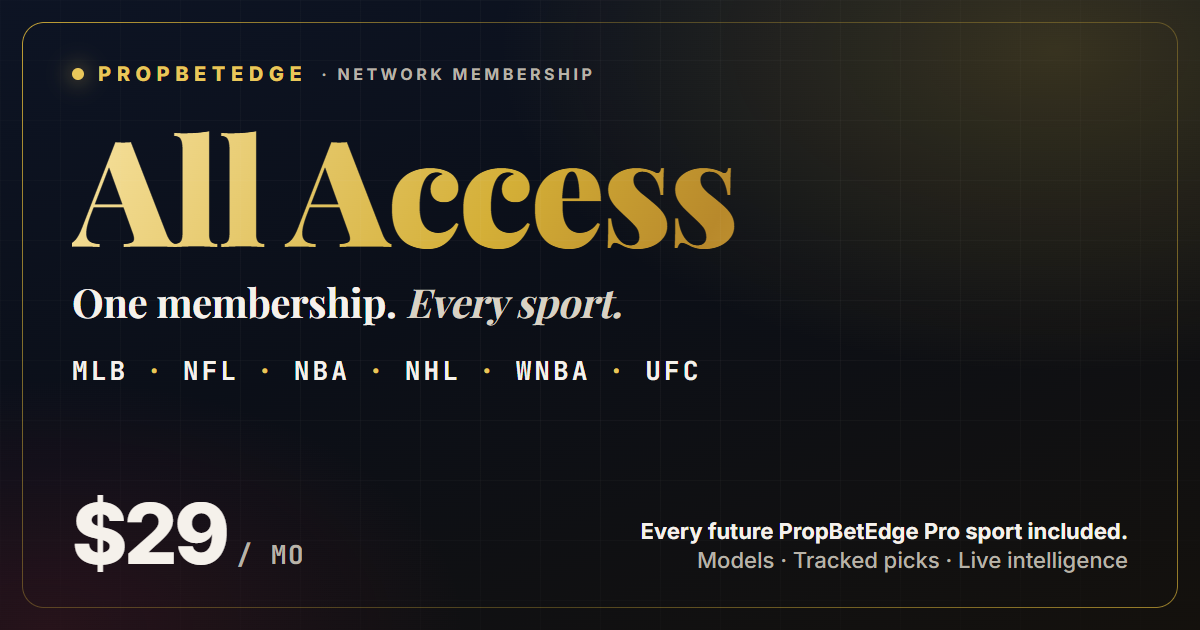
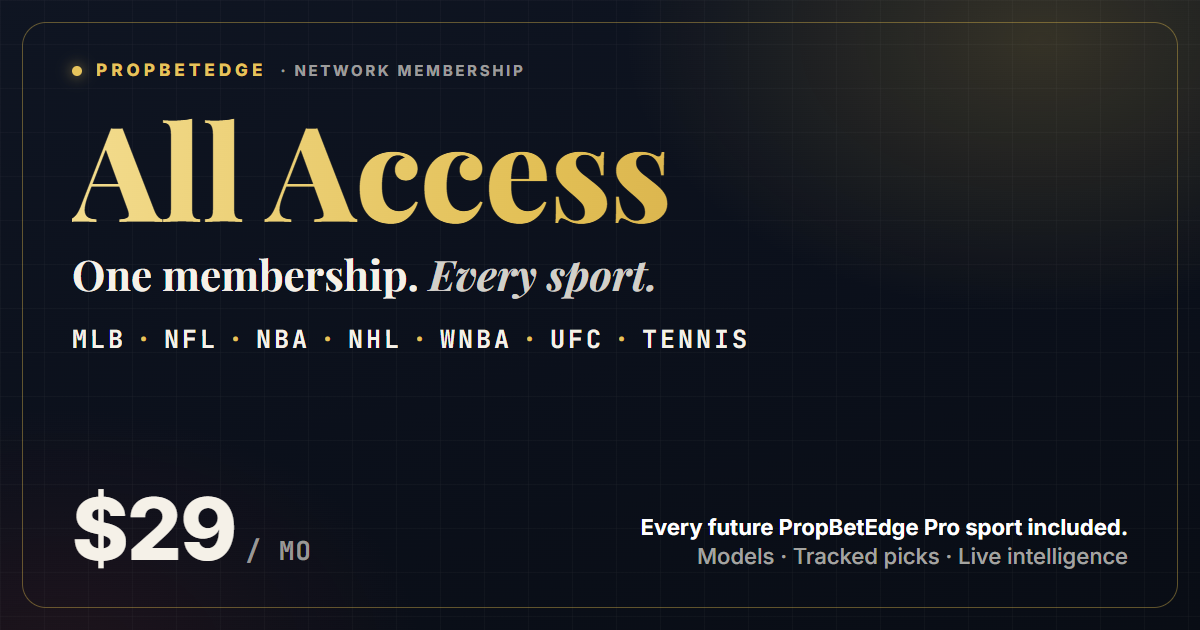
Tennis = 7th PropBetEdge sport: All Access /pro, share cards, root footer, network schema
/pro: SPORTS gains PropBetEdge Tennis (grid, links, JSON-LD product copy), '7 sports today', hero line 'MLB, NFL, NBA, NHL, WNBA and UFC Pro, plus PropBetEdge Tennis'. Sport-plan copy unchanged (Tennis has no sport plan). Title 'PropBetEdge All Access | 7 Sports, One Membership' (<=60 chars); description, share title and image alt name Tennis. All Access share card re-rendered from the new scripts/og/all-access-card.html (same design, sport row with TENNIS), ?v=20260926t; network card sport row gains TENNIS, ?v=20260926t. Root footer: Tennis Intelligence (Free) from PROPBET_LINKS.tennis. Organization/about/live-platform copy name Tennis.

Stripe identity untouched: pbe_all_access, price_1UJCF1F3CaVzg4ORSIohWTca, plink_1UJCFAF3CaVzg4ORKspa47rI, $29/month, THEEDGE25. tests/network-sports.test.mjs pins it and the 7-sport footer.

diff --git a/scripts/og/all-access-card.html b/scripts/og/all-access-card.html
@@ -1,0 +1,52 @@
+<!doctype html>
+<html lang="en">
+<head>
+<meta charset="utf-8">
+<!-- PropBetEdge All Access share card (1200x630) for /pro. Render: node scripts/og/render-all-access-card.mjs
+     Commercial facts must match src/pro-content.js ALL_ACCESS (price) and SPORTS (every sport). -->
+<link href="https://fonts.googleapis.com/css2?family=Playfair+Display:ital,wght@0,700;0,800;1,700&family=Inter:wght@500;600;700;800&family=JetBrains+Mono:wght@600;700&display=block" rel="stylesheet">
+<style>
+  *{box-sizing:border-box;margin:0;padding:0}
+  html,body{width:1200px;height:630px;overflow:hidden;background:#0a0e17}
+  .card{position:relative;width:1200px;height:630px;overflow:hidden;color:#f5f1e8;font-family:Inter,system-ui,sans-serif;
+    background:
+      radial-gradient(640px 420px at 1040px 40px, rgba(214,178,74,.20), transparent 65%),
+      radial-gradient(520px 360px at 60px 660px, rgba(120,40,40,.18), transparent 70%),
+      linear-gradient(165deg,#0f1522 0%,#0b101b 55%,#090d15 100%)}
+  .grid{position:absolute;inset:0;background-image:linear-gradient(rgba(255,255,255,.028) 1px,transparent 1px),linear-gradient(90deg,rgba(255,255,255,.028) 1px,transparent 1px);background-size:44px 44px}
+  .frame{position:absolute;inset:22px;border-radius:24px;border:1px solid rgba(214,178,74,.42)}
+  .safe{position:absolute;left:72px;top:62px;right:72px;bottom:58px}
+  .kicker{display:flex;align-items:center;gap:14px;font:800 17px/1 Inter,sans-serif;letter-spacing:.24em;color:#e6c35c}
+  .kicker i{width:10px;height:10px;border-radius:50%;background:#e6c35c;box-shadow:0 0 14px rgba(230,195,92,.8)}
+  .kicker span{color:rgba(245,241,232,.62);font-weight:700;font-size:15px;letter-spacing:.18em}
+  h1{margin-top:22px;font:800 132px/1 'Playfair Display',serif;letter-spacing:-.01em;
+    background:linear-gradient(95deg,#f3dc8e 0%,#e2bf55 45%,#c6973a 100%);-webkit-background-clip:text;background-clip:text;color:transparent}
+  .tag{margin-top:18px;font:700 42px/1.1 'Playfair Display',serif;color:#f5f1e8}
+  .tag em{font-style:italic;color:rgba(245,241,232,.85)}
+  .sports{margin-top:30px;font:700 25px/1 'JetBrains Mono',monospace;letter-spacing:.12em;color:#f5f1e8}
+  .sports b{color:#e6c35c;padding:0 10px;font-weight:700}
+  .foot{position:absolute;left:0;right:0;bottom:0;display:flex;align-items:flex-end;justify-content:space-between}
+  .price{font:800 86px/1 Inter,sans-serif;letter-spacing:-.02em;color:#f5f1e8}
+  .price small{font:600 26px/1 'JetBrains Mono',monospace;color:rgba(245,241,232,.6);letter-spacing:.04em;margin-left:10px}
+  .inc{text-align:right}
+  .inc p{font:700 22px/1.35 Inter,sans-serif;color:#fff}
+  .inc p + p{font-weight:500;color:rgba(245,241,232,.66)}
+</style>
+</head>
+<body>
+<div class="card">
+  <div class="grid"></div>
+  <div class="frame"></div>
+  <div class="safe">
+    <div class="kicker"><i></i>PROPBETEDGE <span>· NETWORK MEMBERSHIP</span></div>
+    <h1>All Access</h1>
+    <div class="tag">One membership. <em>Every sport.</em></div>
+    <div class="sports">MLB<b>·</b>NFL<b>·</b>NBA<b>·</b>NHL<b>·</b>WNBA<b>·</b>UFC<b>·</b>TENNIS</div>
+    <div class="foot">
+      <div class="price">$29<small>/ MO</small></div>
+      <div class="inc"><p>Every future PropBetEdge Pro sport included.</p><p>Models · Tracked picks · Live intelligence</p></div>
+    </div>
+  </div>
+</div>
+</body>
+</html>

diff --git a/src/pro-seo.js b/src/pro-seo.js
@@ -22,23 +22,23 @@ export const PRODUCT_ID = `${PRO_CANONICAL}#product`;
 export const OFFER_ID = `${PRO_CANONICAL}#offer`;
 export const BREADCRUMB_ID = `${PRO_CANONICAL}#breadcrumb`;
 
-export const PRO_TITLE = 'PropBetEdge All Access | MLB, NFL, NBA, NHL, WNBA & UFC Pro';
-export const PRO_DESCRIPTION = 'One $29/month membership for every PropBetEdge sport: MLB, NFL, NBA, NHL, WNBA and UFC Pro today, every future sport included. Proprietary prediction models, tracked and graded picks, live intelligence and PBEcast under one login.';
+export const PRO_TITLE = 'PropBetEdge All Access | 7 Sports, One Membership';
+export const PRO_DESCRIPTION = 'One $29/month membership for every PropBetEdge sport: MLB, NFL, NBA, NHL, WNBA and UFC Pro plus Tennis today, every future sport included. Proprietary prediction models, tracked and graded picks, live intelligence and PBEcast under one login.';
 export const PRO_SUCCESS_TITLE = 'All Access is active | PropBetEdge';
 export const PRO_SUCCESS_DESCRIPTION = 'Your PropBetEdge All Access membership is active. Sign in to any sport with the email you used at checkout.';
 
 /* Dedicated, evergreen share card: a static 1200x630 PNG at a stable public
    URL. Static on purpose: no auth, no runtime, correct MIME, cacheable. */
 export const PRO_SOCIAL_IMAGE = Object.freeze({
-  url: `${SITE}/social/all-access-1200x630.png`,
-  secure_url: `${SITE}/social/all-access-1200x630.png`,
+  url: `${SITE}/social/all-access-1200x630.png?v=20260926t`,
+  secure_url: `${SITE}/social/all-access-1200x630.png?v=20260926t`,
   type: 'image/png',
   width: 1200,
   height: 630,
-  alt: 'PropBetEdge All Access: one membership, every sport. MLB, NFL, NBA, NHL, WNBA, UFC. $29 per month.',
+  alt: 'PropBetEdge All Access: one membership, every sport. MLB, NFL, NBA, NHL, WNBA, UFC, Tennis. $29 per month.',
 });
 
-export const PRO_SHARE_TITLE = 'PropBetEdge All Access — MLB, NFL, NBA, NHL, WNBA and UFC Pro under one membership.';
+export const PRO_SHARE_TITLE = 'PropBetEdge All Access — MLB, NFL, NBA, NHL, WNBA, UFC and Tennis under one membership.';
 
 export const ROBOTS_INDEX = 'index, follow, max-image-preview:large';
 export const ROBOTS_TRANSACTIONAL = 'noindex, follow';
@@ -142,7 +142,7 @@ export function proJsonLd() {
         '@id': PRODUCT_ID,
         name: ALL_ACCESS.name,
         alternateName: 'All Access',
-        description: 'A monthly sports intelligence membership covering every PropBetEdge sport. Includes the Pro tier of PropBetEdge MLB, NFL, NBA, NHL, WNBA and UFC, plus every future PropBetEdge sport and Pro product: proprietary prediction models, tracked and graded picks, live game intelligence, PBEcast live experiences, player and matchup intelligence, with one login across the network.',
+        description: 'A monthly sports intelligence membership covering every PropBetEdge sport. Includes the Pro tier of PropBetEdge MLB, NFL, NBA, NHL, WNBA and UFC, PropBetEdge Tennis, and every future PropBetEdge sport and Pro product: proprietary prediction models, tracked and graded picks, live game intelligence, PBEcast live experiences, player and matchup intelligence, with one login across the network.',
         url: PRO_CANONICAL,
         image: PRO_SOCIAL_IMAGE.url,
         category: 'Sports intelligence membership',

diff --git a/index.html b/index.html
@@ -81,20 +81,20 @@
   <meta property="og:title" content="PropBetEdge — Sports News" />
   <meta property="og:description" content="Editorial sports journalism with AI prop-bet impact analysis." />
   <meta property="og:site_name" content="PropBetEdge" />
-  <meta property="og:image" content="https://propbetedge.ai/og/propbetedge-network-1200x630.png?v=20260926" />
-  <meta property="og:image:secure_url" content="https://propbetedge.ai/og/propbetedge-network-1200x630.png?v=20260926" />
+  <meta property="og:image" content="https://propbetedge.ai/og/propbetedge-network-1200x630.png?v=20260926t" />
+  <meta property="og:image:secure_url" content="https://propbetedge.ai/og/propbetedge-network-1200x630.png?v=20260926t" />
   <meta property="og:image:type" content="image/png" />
   <meta property="og:image:width" content="1200" />
   <meta property="og:image:height" content="630" />
-  <meta property="og:image:alt" content="PropBetEdge — The Sports Intelligence Network. Live data, Player DNA, PBEcast and predictive models across MLB, NFL, NBA, WNBA, NHL and UFC." />
+  <meta property="og:image:alt" content="PropBetEdge — The Sports Intelligence Network. Live data, Player DNA, PBEcast and predictive models across MLB, NFL, NBA, WNBA, NHL, UFC and Tennis." />
 
   <!-- Twitter -->
   <meta name="twitter:card" content="summary_large_image" />
   <meta name="twitter:title" content="PropBetEdge — Sports News" />
   <meta name="twitter:description" content="Editorial sports journalism with AI prop-bet impact analysis." />
   <meta name="twitter:site" content="@PROPBETEDGE" />
-  <meta name="twitter:image" content="https://propbetedge.ai/og/propbetedge-network-1200x630.png?v=20260926" />
-  <meta name="twitter:image:alt" content="PropBetEdge — The Sports Intelligence Network. Live data, Player DNA, PBEcast and predictive models across MLB, NFL, NBA, WNBA, NHL and UFC." />
+  <meta name="twitter:image" content="https://propbetedge.ai/og/propbetedge-network-1200x630.png?v=20260926t" />
+  <meta name="twitter:image:alt" content="PropBetEdge — The Sports Intelligence Network. Live data, Player DNA, PBEcast and predictive models across MLB, NFL, NBA, WNBA, NHL, UFC and Tennis." />
 
   <link rel="canonical" href="https://propbetedge.ai/" />
   <link rel="alternate" type="application/rss+xml" title="PropBetEdge News" href="/news/rss.xml" />
@@ -108,7 +108,7 @@
         "@id": "https://propbetedge.ai/#organization",
         "name": "PropBetEdge",
         "url": "https://propbetedge.ai/",
-        "description": "AI-native sports newsroom and sports-intelligence network covering MLB, NFL, NBA, WNBA, NHL, UFC, and expanding sports data products.",
+        "description": "AI-native sports newsroom and sports-intelligence network covering MLB, NFL, NBA, WNBA, NHL, UFC, Tennis, and expanding sports data products.",
         "mainEntityOfPage": "https://propbetedge.ai/about",
         "contactPoint": [
           { "@type": "ContactPoint", "contactType": "editorial", "email": "editorial@proptechusa.ai" },

diff --git a/src/pro-content.js b/src/pro-content.js
@@ -27,6 +27,7 @@ export const SPORTS = Object.freeze([
   { key: 'nhl', label: 'NHL', name: 'PropBetEdge NHL', url: 'https://nhl.propbetedge.ai', glyph: '🏒', edge: 'PBE NHL Picks, live scores, atmosphere board' },
   { key: 'wnba', label: 'WNBA', name: 'PropBetEdge WNBA', url: 'https://wnba.propbetedge.ai', glyph: '🏀', edge: 'PBE model, props board, newsroom and video' },
   { key: 'ufc', label: 'UFC', name: 'PropBetEdge UFC', url: 'https://ufc.propbetedge.ai', glyph: '🥊', edge: 'PBE Algo, Fighter DNA, fight-week intelligence' },
+  { key: 'tennis', label: 'Tennis', name: 'PropBetEdge Tennis', url: 'https://tennis.propbetedge.ai', glyph: '🎾', edge: 'Live scores, rankings, Tennis DNA, PBEcast' },
 ]);
 
 export const VALUE_PROPS = Object.freeze([
@@ -128,7 +129,7 @@ function hero(shareBar = '') {
         <div class="pbe-pro-price" aria-label="Price"><span class="pbe-pro-price-amount">$${ALL_ACCESS.priceUsd}</span><span class="pbe-pro-price-per">/ ${ALL_ACCESS.interval}</span></div>
         ${ctaButton('Get All Access', 'pbe-pro-cta-hero')}
         ${promoChip()}
-        <p class="pbe-pro-hero-fine">Includes MLB, NFL, NBA, NHL, WNBA and UFC Pro today. Individual sport plans stay available; All Access is the umbrella, not a replacement.</p>
+        <p class="pbe-pro-hero-fine">Includes MLB, NFL, NBA, NHL, WNBA and UFC Pro, plus PropBetEdge Tennis, today. Individual sport plans stay available; All Access is the umbrella, not a replacement.</p>
         ${shareBar ? `<div class="pbe-pro-share">${shareBar}</div>` : ''}
       </div>
       ${membershipCard(false)}
@@ -193,7 +194,7 @@ export function buildProHtml({ checkoutSuccess = false, shareBar = '' } = {}) {
           <div class="pbe-pro-plans-facts">
             <div><span class="pbe-pro-fact-k">Billing</span><span class="pbe-pro-fact-v">${priceLabel()}, cancel anytime</span></div>
             <div><span class="pbe-pro-fact-k">Access</span><span class="pbe-pro-fact-v">Secure sign-in link to your checkout email</span></div>
-            <div><span class="pbe-pro-fact-k">Coverage</span><span class="pbe-pro-fact-v">6 sports today, every future sport included</span></div>
+            <div><span class="pbe-pro-fact-k">Coverage</span><span class="pbe-pro-fact-v">7 sports today, every future sport included</span></div>
             <div><span class="pbe-pro-fact-k">Launch offer</span><span class="pbe-pro-fact-v">${esc(promoLine())}</span></div>
           </div>
         </div>

diff --git a/src/social.js b/src/social.js
@@ -12,14 +12,14 @@ export const PROPBETEDGE_X_HANDLE = '@PROPBETEDGE';
 /* Network default share card: static 1200x630 RGB PNG rendered from
    scripts/og/network-card.html. Bump ?v= whenever the PNG changes so X,
    LinkedIn, Slack and Discord refetch instead of serving their cached copy. */
-const NETWORK_CARD = 'https://propbetedge.ai/og/propbetedge-network-1200x630.png?v=20260926';
+const NETWORK_CARD = 'https://propbetedge.ai/og/propbetedge-network-1200x630.png?v=20260926t';
 export const NETWORK_SOCIAL_IMAGE = Object.freeze({
   url: NETWORK_CARD,
   secure_url: NETWORK_CARD,
   type: 'image/png',
   width: 1200,
   height: 630,
-  alt: 'PropBetEdge — The Sports Intelligence Network. Live data, Player DNA, PBEcast and predictive models across MLB, NFL, NBA, WNBA, NHL and UFC.',
+  alt: 'PropBetEdge — The Sports Intelligence Network. Live data, Player DNA, PBEcast and predictive models across MLB, NFL, NBA, WNBA, NHL, UFC and Tennis.',
 });
 
 /** X share-intent URL (never the profile URL) with encoded text and url. */

diff --git a/src/pages/about.js b/src/pages/about.js
@@ -61,7 +61,7 @@ export function renderAbout(root, setMeta) {
             The main PropBetEdge publication covers MLB, NFL, NBA, and NHL news and analysis while connecting stories to permanent player, team, game, standings, and statistical-intelligence pages.
           </p>
           <p>
-            The wider PropBetEdge network also includes dedicated MLB, NFL, NBA, WNBA, NHL, and UFC product sites. Those products are connected properties in the same network, not separate publisher identities.
+            The wider PropBetEdge network also includes dedicated MLB, NFL, NBA, WNBA, NHL, UFC, and Tennis product sites. Those products are connected properties in the same network, not separate publisher identities.
           </p>
           <ul>
             <li><a href="https://mlb.propbetedge.ai/" target="_blank" rel="noopener"><strong>PropBetEdge MLB</strong></a></li>

diff --git a/scripts/og/network-card.html b/scripts/og/network-card.html
@@ -84,7 +84,7 @@
     <div class="tag">The Sports Intelligence Network</div>
     <div class="caps">LIVE DATA<span class="dot">•</span>PLAYER DNA<span class="dot">•</span>PBECAST<span class="dot">•</span>PREDICTIVE MODELS</div>
     <div class="foot">
-      <div class="sports">MLB<span class="dot">•</span>NFL<span class="dot">•</span>NBA<span class="dot">•</span>WNBA<span class="dot">•</span>NHL<span class="dot">•</span>UFC</div>
+      <div class="sports">MLB<span class="dot">•</span>NFL<span class="dot">•</span>NBA<span class="dot">•</span>WNBA<span class="dot">•</span>NHL<span class="dot">•</span>UFC<span class="dot">•</span>TENNIS</div>
       <div class="domain"><i></i>propbetedge.ai</div>
     </div>
   </div>

diff --git a/src/components/footer.js b/src/components/footer.js
@@ -25,6 +25,7 @@ export function renderFooter() {
             <a href="https://wnba.propbetedge.ai" target="_blank" rel="noopener">WNBA Intelligence <span class="footer-badge">Pro</span></a>
             <a href="${PROPBET_LINKS.picks_nhl}" target="_blank" rel="noopener">NHL Intelligence <span class="footer-badge">Pro</span></a>
             <a href="${PROPBET_LINKS.picks_ufc}" target="_blank" rel="noopener">UFC Intelligence <span class="footer-badge">Pro</span></a>
+            <a href="${PROPBET_LINKS.tennis}" target="_blank" rel="noopener">Tennis Intelligence <span class="footer-badge">Free</span></a>
           </div>
 
           <div class="footer-col">

diff --git a/src/schema.js b/src/schema.js
@@ -25,7 +25,7 @@ const SITE = {
   url: 'https://propbetedge.ai',
   name: 'PropBetEdge',
   parentOrg: 'PropTechUSA.ai',
-  description: 'AI-native sports newsroom and sports-intelligence network covering MLB, NFL, NBA, WNBA, NHL, UFC, and expanding sports data products.',
+  description: 'AI-native sports newsroom and sports-intelligence network covering MLB, NFL, NBA, WNBA, NHL, UFC, Tennis, and expanding sports data products.',
   logo: 'https://propbetedge.ai/logo/pbe-full-400.png',
   logoSquare: 'https://propbetedge.ai/favicon-192.png',
   twitter: PROPBETEDGE_X_URL,

diff --git a/src/live-platform-launch.js b/src/live-platform-launch.js
@@ -150,7 +150,7 @@ function patchHouseAds() {
 
   document.querySelectorAll('[data-ad-brand="propbetedge_network"]').forEach(root => {
     const sub = root.querySelector('.ad-block-sub');
-    if (sub) sub.textContent = 'MLB, NFL, NBA, WNBA, NHL and UFC now have live PropBetEdge intelligence platforms connected by the same data-first network.';
+    if (sub) sub.textContent = 'MLB, NFL, NBA, WNBA, NHL, UFC and Tennis now have live PropBetEdge intelligence platforms connected by the same data-first network.';
   });
 }
 

diff --git a/src/ads-config.js b/src/ads-config.js
@@ -45,6 +45,7 @@ export const PROPBET_LINKS = {
   picks_wnba:  'https://wnba.propbetedge.ai',
   picks_nba:   'https://nba.propbetedge.ai',
   picks_nhl:   'https://nhl.propbetedge.ai',
+  tennis:      'https://tennis.propbetedge.ai',
   news_mlb:    'https://propbetedge.ai/news/mlb',
   news_nfl:    'https://propbetedge.ai/news/nfl',
   news_ufc:    'https://ufc.propbetedge.ai/news',
